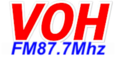
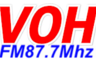
update

diff --git a/components/PanelVietNam.vue b/components/PanelVietNam.vue
@@ -5,111 +5,98 @@
     </div>
 
     <el-row :gutter="12">
-      <el-col :xs="12" :sm="4" :md="4" :lg="3" :xl="3">
-        <router-link to="/viet-nam/vov1">
-          <el-tooltip content="VOV 1" placement="top">
-            <el-image shape="square" :size="100" fit="cover" src="/img/viet-nam/vov1.png" lazy></el-image>
-          </el-tooltip>
-        </router-link>
+      <el-col :xs="6" :sm="4" :md="4" :lg="3" :xl="3" class="pad-box-chanel">
+        <nuxt-link to="/viet-nam/vov1" class="mx-auto border-img" active-class="chanel-is-active">
+            <el-image class="align-middle img-center" shape="square" :size="100" fit="scale-down" src="/img/viet-nam/vov1.png" lazy></el-image>
+        </nuxt-link>
       </el-col>
-      <el-col :xs="12" :sm="4" :md="4" :lg="3" :xl="3">
-        <router-link to="/viet-nam/vov2">
-          <el-image shape="square" :size="100" fit="cover" src="/img/viet-nam/vov2.png" lazy></el-image>
-        </router-link>
+      <el-col :xs="6" :sm="4" :md="4" :lg="3" :xl="3" class="pad-box-chanel">
+        <nuxt-link to="/viet-nam/vov2" class="mx-auto border-img">
+            <el-image class="align-middle img-center" shape="square" :size="100" fit="scale-down" src="/img/viet-nam/vov2.png" lazy></el-image>
+        </nuxt-link>
       </el-col>
-      <el-col :xs="12" :sm="4" :md="4" :lg="3" :xl="3">
-        <router-link to="/viet-nam/vov3">
-          <el-image shape="square" :size="100" fit="cover" src="/img/viet-nam//vov3.png" lazy></el-image>
-        </router-link>
+      <el-col :xs="6" :sm="4" :md="4" :lg="3" :xl="3" class="pad-box-chanel">
+        <nuxt-link to="/viet-nam/vov3" class="mx-auto border-img">
+          <el-image class="align-middle img-center" shape="square" :size="100" fit="scale-down" src="/img/viet-nam//vov3.png" lazy></el-image>
+        </nuxt-link>
       </el-col>
-      <el-col :xs="12" :sm="4" :md="4" :lg="3" :xl="3">
-        <router-link to="/viet-nam/vov4">
-          <el-image shape="square" :size="100" fit="cover" src="/img/viet-nam/vov4.png" lazy></el-image>
-        </router-link>
+      <el-col :xs="6" :sm="4" :md="4" :lg="3" :xl="3" class="pad-box-chanel">
+        <nuxt-link to="/viet-nam/vov4" class="mx-auto border-img">
+          <el-image class="align-middle img-center" shape="square" :size="100" fit="scale-down" src="/img/viet-nam/vov4.png" lazy></el-image>
+        </nuxt-link>
       </el-col>
 
-      <el-col :xs="12" :sm="4" :md="4" :lg="3" :xl="3">
-        <router-link to="/viet-nam/vov5">
-          <el-image shape="square" :size="100" fit="cover" src="/img/viet-nam/vov5.png" lazy></el-image>
-        </router-link>
+      <el-col :xs="6" :sm="4" :md="4" :lg="3" :xl="3" class="pad-box-chanel">
+        <nuxt-link to="/viet-nam/vov5" class="mx-auto border-img">
+          <el-image class="align-middle img-center" shape="square" :size="100" fit="scale-down" src="/img/viet-nam/vov5.png" lazy></el-image>
+        </nuxt-link>
       </el-col>
-      <el-col :xs="12" :sm="4" :md="4" :lg="3" :xl="3">
-        <router-link to="/viet-nam/vov-english">
-          <el-image shape="square" :size="100" fit="cover" src="/img/viet-nam/vov-english.png" lazy></el-image>
-        </router-link>
+      <el-col :xs="6" :sm="4" :md="4" :lg="3" :xl="3" class="pad-box-chanel">
+        <nuxt-link to="/viet-nam/vov-english" class="mx-auto border-img">
+          <el-image class="align-middle img-center" shape="square" :size="100" fit="scale-down" src="/img/viet-nam/vov-english.png" lazy></el-image>
+        </nuxt-link>
       </el-col>
-      <el-col :xs="12" :sm="4" :md="4" :lg="3" :xl="3">
-        <router-link to="/viet-nam/vov-gt-hcm">
-          <el-image shape="square" :size="100" fit="cover" src="/img/viet-nam/vov-gt-tphcm.png" lazy></el-image>
-        </router-link>
+      <el-col :xs="6" :sm="4" :md="4" :lg="3" :xl="3" class="pad-box-chanel">
+        <nuxt-link to="/viet-nam/vov-gt-hcm" class="mx-auto border-img">
+          <el-image class="align-middle img-center" shape="square" :size="100" fit="scale-down" src="/img/viet-nam/vov-gt-tphcm.png" lazy></el-image>
+        </nuxt-link>
       </el-col>
-      <el-col :xs="12" :sm="4" :md="4" :lg="3" :xl="3">
-        <router-link to="/viet-nam/vov-giao-thong">
-          <el-image shape="square" :size="100" fit="cover" src="/img/viet-nam/vov-giao-thong-ha-noi.png"
+      <el-col :xs="6" :sm="4" :md="4" :lg="3" :xl="3" class="pad-box-chanel">
+        <nuxt-link to="/viet-nam/vov-giao-thong" class="mx-auto border-img">
+          <el-image class="align-middle img-center" shape="square" :size="100" fit="scale-down" src="/img/viet-nam/vov-giao-thong-ha-noi.png"
                     lazy></el-image>
-        </router-link>
+        </nuxt-link>
       </el-col>
-      <el-col :xs="12" :sm="4" :md="4" :lg="3" :xl="3">
-        <router-link to="/viet-nam/voh-am-610khz">
-          <el-image shape="square" :size="100" fit="cover" src="/img/viet-nam/voh.png"
-                    lazy></el-image>
-        </router-link>
+      <el-col :xs="6" :sm="4" :md="4" :lg="3" :xl="3" class="pad-box-chanel">
+        <nuxt-link to="/viet-nam/voh-am-610khz" class="mx-auto border-img">
+          <el-image class="align-middle img-center" shape="square" :size="100" fit="scale-down" src="/img/viet-nam/voh.png" lazy></el-image>
+        </nuxt-link>
       </el-col>
-      <el-col :xs="12" :sm="4" :md="4" :lg="3" :xl="3">
-        <router-link to="/viet-nam/voh-fm-99.9-mhz">
-          <el-image shape="square" :size="100" fit="cover" src="/img/viet-nam/voh-fm.png"
-                    lazy></el-image>
-        </router-link>
+      <el-col :xs="6" :sm="4" :md="4" :lg="3" :xl="3" class="pad-box-chanel">
+        <nuxt-link to="/viet-nam/voh-fm-99.9-mhz" class="mx-auto border-img">
+          <el-image class="align-middle img-center" shape="square" :size="100" fit="scale-down" src="/img/viet-nam/voh-fm.png" lazy></el-image>
+        </nuxt-link>
       </el-col>
-      <el-col :xs="12" :sm="4" :md="4" :lg="3" :xl="3">
-        <router-link to="/viet-nam/voh-fm-95.6-mhz">
-          <el-image shape="square" :size="100" fit="cover" src="/img/viet-nam/voh-fm-95-6.png"
-                    lazy></el-image>
-        </router-link>
+      <el-col :xs="6" :sm="4" :md="4" :lg="3" :xl="3" class="pad-box-chanel">
+        <nuxt-link to="/viet-nam/voh-fm-95.6-mhz" class="mx-auto border-img">
+          <el-image class="align-middle img-center" shape="square" :size="100" fit="scale-down" src="/img/viet-nam/voh-fm-95-6.png" lazy></el-image>
+        </nuxt-link>
       </el-col>
-      <el-col :xs="12" :sm="4" :md="4" :lg="3" :xl="3">
-        <router-link to="/viet-nam/voh-fm-87.7-mhz">
-          <el-image shape="square" :size="100" fit="cover" src="/img/viet-nam/voh-87-7-mhz.png"
-                    lazy></el-image>
-        </router-link>
+      <el-col :xs="6" :sm="4" :md="4" :lg="3" :xl="3" class="pad-box-chanel">
+        <nuxt-link to="/viet-nam/voh-fm-87.7-mhz" class="mx-auto border-img">
+          <el-image class="align-middle img-center" shape="square" :size="100" fit="scale-down" src="/img/viet-nam/voh-87-7-mhz.png" lazy></el-image>
+        </nuxt-link>
       </el-col>
-      <el-col :xs="12" :sm="4" :md="4" :lg="3" :xl="3">
-        <router-link to="/viet-nam/ba-ria-vung-tau">
-          <el-image shape="square" :size="100" fit="cover" src="/img/viet-nam/ba-ria-vung-tau.png"
-                    lazy></el-image>
-        </router-link>
+      <el-col :xs="6" :sm="4" :md="4" :lg="3" :xl="3" class="pad-box-chanel">
+        <nuxt-link to="/viet-nam/ba-ria-vung-tau" class="mx-auto border-img">
+          <el-image class="align-middle img-center" shape="square" :size="100" fit="scale-down" src="/img/viet-nam/ba-ria-vung-tau.png" lazy></el-image>
+        </nuxt-link>
       </el-col>
-      <el-col :xs="12" :sm="4" :md="4" :lg="3" :xl="3">
-        <router-link to="/viet-nam/binh-phuoc">
-          <el-image shape="square" :size="100" fit="cover" src="/img/viet-nam/binh-phuoc.png"
-                    lazy></el-image>
-        </router-link>
+      <el-col :xs="6" :sm="4" :md="4" :lg="3" :xl="3" class="pad-box-chanel">
+        <nuxt-link to="/viet-nam/binh-phuoc" class="mx-auto border-img">
+          <el-image class="align-middle img-center" shape="square" :size="100" fit="scale-down" src="/img/viet-nam/binh-phuoc.png" lazy></el-image>
+        </nuxt-link>
       </el-col>
-      <el-col :xs="12" :sm="4" :md="4" :lg="3" :xl="3">
-        <router-link to="/viet-nam/binh-thuan">
-          <el-image shape="square" :size="100" fit="cover" src="/img/viet-nam/binh-thuan.png"
-                    lazy></el-image>
-        </router-link>
+      <el-col :xs="6" :sm="4" :md="4" :lg="3" :xl="3" class="pad-box-chanel">
+        <nuxt-link to="/viet-nam/binh-thuan" class="mx-auto border-img">
+          <el-image class="align-middle img-center" shape="square" :size="100" fit="scale-down" src="/img/viet-nam/binh-thuan.png" lazy></el-image>
+        </nuxt-link>
       </el-col>
-      <el-col :xs="12" :sm="4" :md="4" :lg="3" :xl="3">
-        <router-link to="/viet-nam/ca-mau">
-          <el-image shape="square" :size="100" fit="cover" src="/img/viet-nam/ca-mau.png"
-                    lazy></el-image>
-        </router-link>
+      <el-col :xs="6" :sm="4" :md="4" :lg="3" :xl="3" class="pad-box-chanel">
+        <nuxt-link to="/viet-nam/ca-mau" class="mx-auto border-img">
+          <el-image class="align-middle img-center" shape="square" :size="100" fit="scale-down" src="/img/viet-nam/ca-mau.png" lazy></el-image>
+        </nuxt-link>
       </el-col>
-      <el-col :xs="12" :sm="4" :md="4" :lg="3" :xl="3">
-        <router-link to="/viet-nam/can-tho">
-          <el-image shape="square" :size="100" fit="cover" src="/img/viet-nam/can-tho.png"
-                    lazy></el-image>
-        </router-link>
+      <el-col :xs="6" :sm="4" :md="4" :lg="3" :xl="3" class="pad-box-chanel">
+        <nuxt-link to="/viet-nam/can-tho" class="mx-auto border-img">
+          <el-image class="align-middle img-center" shape="square" :size="100" fit="scale-down" src="/img/viet-nam/can-tho.png" lazy></el-image>
+        </nuxt-link>
       </el-col>
-      <el-col :xs="12" :sm="4" :md="4" :lg="3" :xl="3">
-        <router-link to="/viet-nam/da-nang">
-          <el-image shape="square" :size="100" fit="cover" src="/img/viet-nam/da-nang.png"
-                    lazy></el-image>
-        </router-link>
+      <el-col :xs="6" :sm="4" :md="4" :lg="3" :xl="3" class="pad-box-chanel">
+        <nuxt-link to="/viet-nam/da-nang" class="mx-auto border-img">
+          <el-image class="align-middle img-center" shape="square" :size="100" fit="scale-down" src="/img/viet-nam/da-nang.png" lazy></el-image>
+        </nuxt-link>
       </el-col>
-
     </el-row>
 
   </el-card>

diff --git a/assets/custom/css/style.css b/assets/custom/css/style.css
@@ -6,3 +6,50 @@
   width: 100%;
   margin: unset !important;
 }
+
+.text-center {
+  text-align: center !important;
+}
+
+.text-decoration-none {
+  text-decoration: none;
+}
+
+.align-middle {
+  vertical-align: middle!important;
+}
+
+.img-center {
+  display: block !important;
+  margin-left: auto !important;
+  margin-right: auto !important;
+}
+
+.mx-auto {
+  display: block !important;
+  margin-left: auto !important;
+  margin-right: auto !important;
+}
+
+.my-auto {
+  display: block !important;
+  margin-left: auto !important;
+  margin-right: auto !important;
+}
+
+.chanel-radio {
+  width: 96px !important;
+  height: 66px !important;
+}
+
+.border-img {
+  border: 1px solid rgb(0, 160, 206);
+}
+
+.chanel-is-active {
+  border: 1px solid rgb(245, 108, 108) !important;
+}
+
+.pad-box-chanel {
+  padding: 6px 0;
+}

diff --git a/components/Footer.vue b/components/Footer.vue
@@ -1,3 +1,17 @@
 <template>
   <!--<div>Copyright ePlus.DEV</div>-->
+  <div>
+
+  <el-divider><i class="el-icon-star-on"></i></el-divider>
+  <el-row >
+    <el-col :xs="24" :sm="24" :md="12" :lg="12" :xl="12" class="text-center">
+      Copyright ©{{ new Date().getFullYear() }} <a class="text-decoration-none" href="https://eplus.dev" target="_blank">ePlus.DEV</a>
+    </el-col>
+    <el-col :xs="24" :sm="24" :md="12" :lg="12" :xl="12" class="text-center">
+      <span class="align-middle">Serverless by</span> <el-image class="align-middle" shape="square" :size="100" fit="cover" src="https://api.netlify.com/api/v1/badges/db14fce6-3e3b-499a-b805-30ece668ded5/deploy-status"
+                lazy></el-image>
+    </el-col>
+  </el-row>
+
+  </div>
 </template>

diff --git a/components/Header.vue b/components/Header.vue
@@ -1,6 +1,6 @@
 <template>
   <el-menu :default-active="activeIndex" class="el-menu-demo" mode="horizontal" @select="handleSelect">
-    <el-menu-item index="1"><router-link to="/">Trang Chủ</router-link></el-menu-item>
+    <el-menu-item index="1"><nuxt-link class="text-decoration-none" to="/">Trang Chủ</nuxt-link></el-menu-item>
     <!--<el-submenu index="2">
       <template slot="title">Workspace</template>
       <el-menu-item index="2-1">item one</el-menu-item>

diff --git a/layouts/default.vue b/layouts/default.vue
@@ -5,16 +5,16 @@
       <Header></Header>
     <!--</el-header>-->
     <!-- END HEADER -->
+
+    <el-main scroll-container>
     <!-- START CONTENT -->
-    <el-main>
-<!--      <Player></Player>-->
       <nuxt />
-<!--      <PanelRadio></PanelRadio>-->
-    </el-main>
     <!-- End CONTENT -->
     <!-- START FOOTER -->
     <Footer></Footer>
     <!-- END FOOTER -->
+    </el-main>
+
   </div>
 </template>
 
